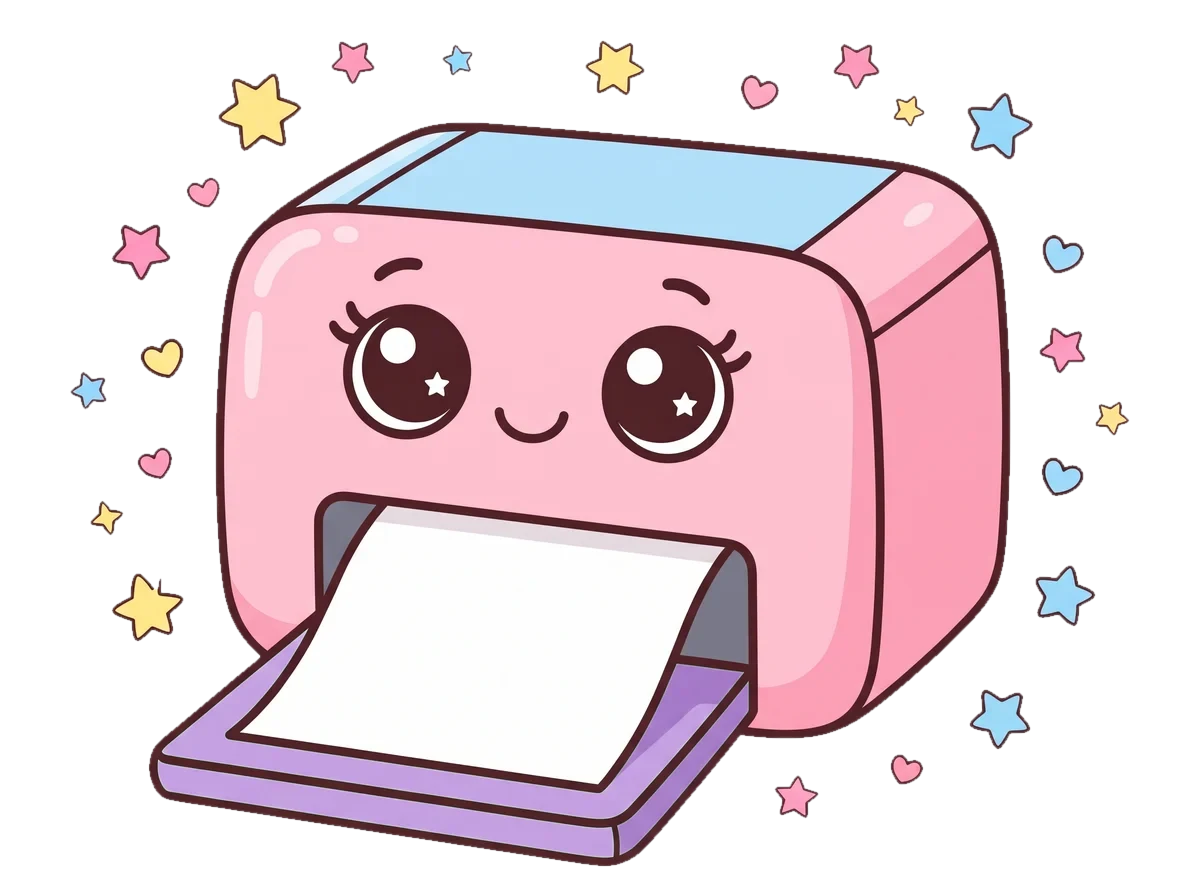
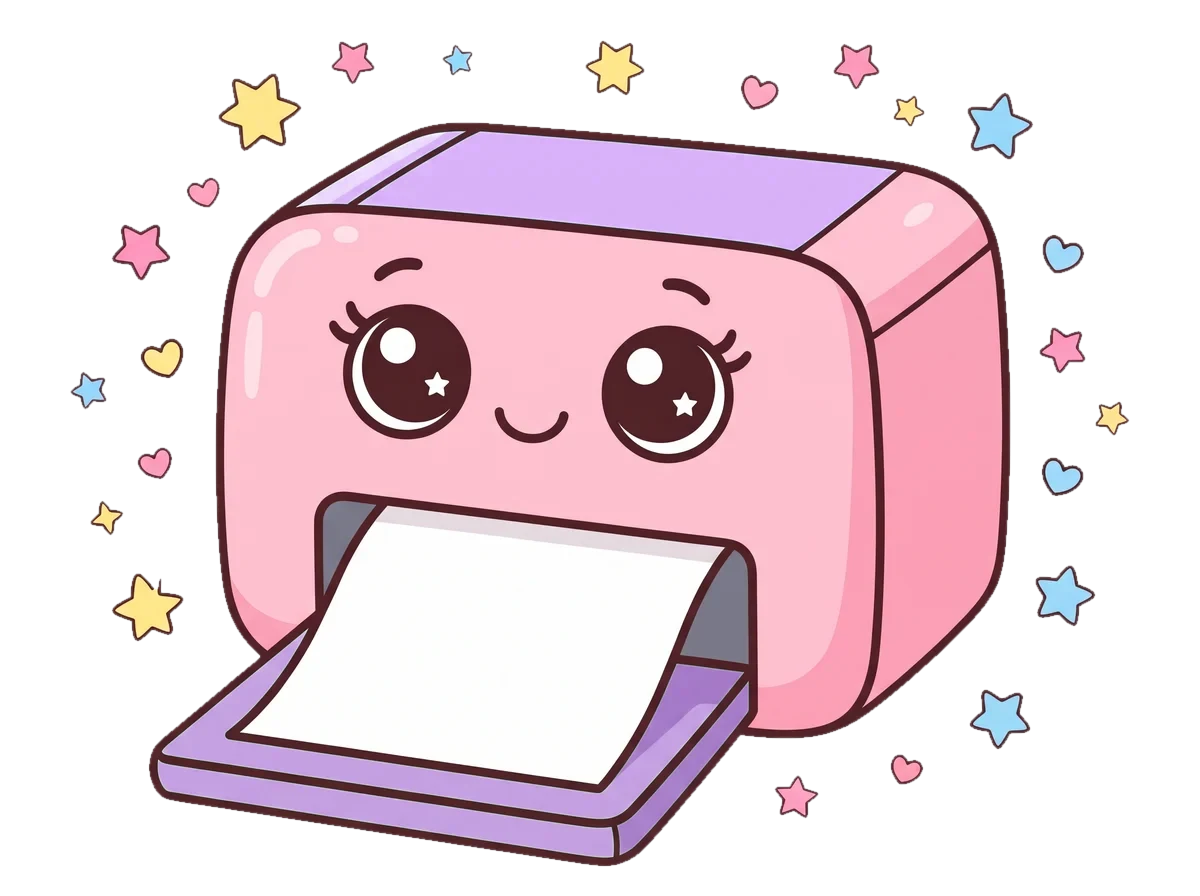
Rosa Drucker: Deckel lila statt blau
Claude-Session: https://claude.ai/code/session_011V9vhcwvGNPLc4pcVkL2q9

Changed region(s): [[0.2775, 0.125, 0.74, 0.2812]]

diff --git a/CLAUDE.md b/CLAUDE.md
@@ -57,7 +57,7 @@ Statische Website auf GitHub Pages, keine Build-Tools, kein Framework.
   Leiste immer A–Z (auf Wunsch wieder das ganze ABC). Im Oktober tragen Halloween-Buchstaben mit Bild + Elas „… is for …“-Video ein kleines 🎃 (`KUERBIS`, B F G H P W); neue Videos in `ELA_VIDEOS.abc` → 🎃 kommt von selbst dazu.
   Knopf „🎬 Drawing video · for parents“ unter dem Bild-Rahmen, wenn das Malbuch-Bild zum Buchstaben einen `youtube`-Link hat (über `elternSperre`).
   Drucker-Knopf = rosa Drucker im Stil der Videos (`bilder/drucker-rosa.webp`, Vorlage der Betreiberin; KEIN Kürbis-Drucker – passte nicht zu jedem Buchstaben):
-  Ablage von Grün auf Logo-Lila umgefärbt, Zeichnung auf dem Blatt entfernt, Hintergrund durchsichtig. `druckerSvg()` legt das Bild des Buchstabens (`blattBild()`, Zahlen: Stern) aufs Blatt.
+  Ablage (grün) und Deckel (blau) auf Logo-Lila umgefärbt, Zeichnung auf dem Blatt entfernt, Hintergrund durchsichtig. `druckerSvg()` legt das Bild des Buchstabens (`blattBild()`, Zahlen: Stern) aufs Blatt.
   Beim Antippen erscheint der Drucker groß, das Bild hüpft aufs Blatt (ca. 1,2 s), dann Druckfenster. Hinweis dazu auch auf `info.html` („Worksheets to print“).
   Geschaffte Buchstaben in `ela-spur-fertig` (Sternchen in der ABC-Leiste: PC Kacheln, Handy ABC-Band). Aufwärm-Linien bewusst weggelassen.
   Knopf „Print“: A4-Nachspur-Blatt aus `SCHRIFT` (`druckblattBauen()`, #druckblatt nur beim Drucken sichtbar, „Als PDF speichern“ = Download):
